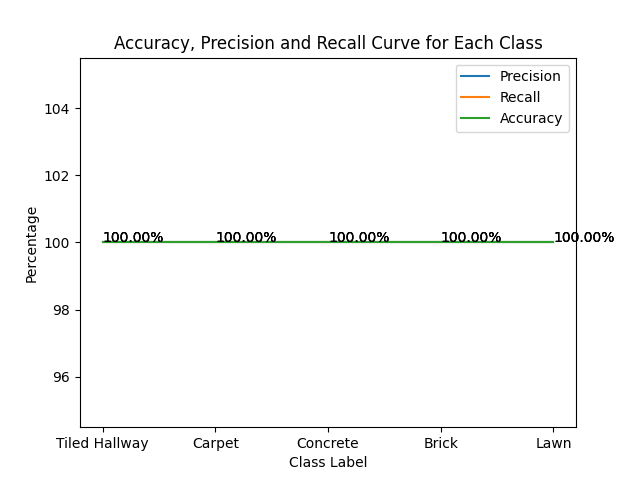
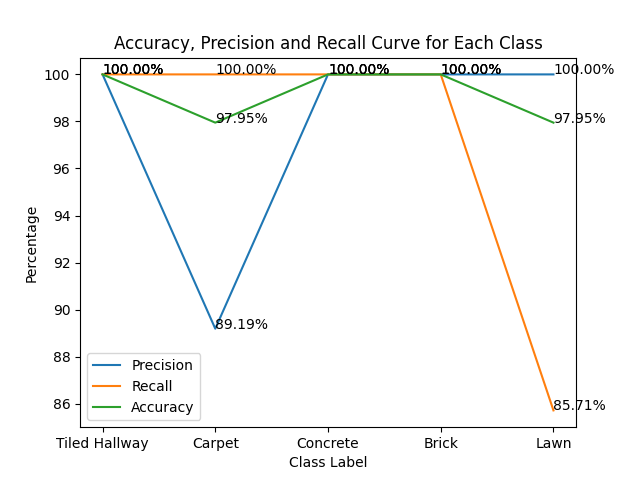
Clean up deleted files

diff --git a/train.py b/train.py
@@ -34,7 +34,7 @@ from PersModel import PersModelCNN
 
 
 
-#10%
+
 def train(config, test_type, model_name):
     """
     Train the SuperResolution model
@@ -313,8 +313,7 @@ def test(test_type, model_name, model = None):
         if model_name == "initial":
             model = TestCNN(input_channels= config['input_channels'],
                 num_blocks=config['num_blocks'],
-                num_features=config['num_features'],
-            )
+                num_features=config['num_features'])
         elif model_name == "alex":
             model = AlexNetCNN(input_channels= config['input_channels'])
         elif model_name == "vgg":
@@ -383,7 +382,10 @@ def test(test_type, model_name, model = None):
     accuracy_list = []
     # find precision and recall statistics
     for i in range(5):
-        precision = (precision_recall[i, 3]/ (precision_recall[i, 3] + precision_recall[i, 0])) * 100
+        if (precision_recall[i, 3] + precision_recall[i, 0]) == 0:
+            precision = 0.0
+        else:
+            precision = precision = (precision_recall[i, 3]/ (precision_recall[i, 3] + precision_recall[i, 0])) * 100
         recall = (precision_recall[i, 3]/ (precision_recall[i, 3] + precision_recall[i, 1])) * 100
         accuracy = ((precision_recall[i, 3] +precision_recall[i,2]) / (precision_recall[i, 0]+ precision_recall[i, 2] + precision_recall[i, 3] + precision_recall[i, 1])) * 100
         precision_list.append(precision)
@@ -430,19 +432,19 @@ if __name__ == "__main__":
         
 
         'root_dir': fr'~\\DeepLearningFallDetection\\data',  # Training data directory
-        'save_dir': fr'CNN_Models\\VGGNet',  # Directory specific to the model being tested 
+        'save_dir': fr'CNN_Models\\Personal_Model',  # Directory specific to the model being tested 
         
         
         # Training parameters
         'batch_size': 15,                
-        'num_epochs': 15,               
-        'learning_rate': 1e-6,           
+        'num_epochs': 150,               
+        'learning_rate': 5e-6,           
         'lr_decay_step': 30,            
         'lr_decay_gamma': 0.5,           
         'validation_interval': 5,        
         'input_channels'   : 6,
         'test_ratio' : 0.2,
-        'window_size' : 64,
+        'window_size' : 128,
         'num_features': 64,             
         'num_blocks': 8,      
         'test_type' : "user",         
@@ -457,6 +459,6 @@ if __name__ == "__main__":
     
 
     if config['run_type'] == 'test':
-        test(config['test_type'], "vgg")
+        test(config['test_type'], "personal")
     else:
-        train(config, config['test_type'], "vgg")
+        train(config, config['test_type'], "personal")

diff --git a/plot_peaks.py b/plot_peaks.py
@@ -2,8 +2,9 @@ from scipy.signal import find_peaks
 import pandas as pd
 import numpy as np
 import matplotlib.pyplot as plt
+from findpeaks import findpeaks
 
-df = pd.read_csv('~\\DeepLearningFallDetection\\data\\User2_LocationA_Normal.csv', sep = "\t", header = 1)
+df = pd.read_csv('~\\DeepLearningFallDetection\\data\\User1_LocationA_Normal.csv', sep = "\t", header = 1)
 
 
 df = df.iloc[1:].astype('float64')
@@ -12,7 +13,18 @@ df = df.iloc[1:].astype('float64')
 df['Composed_Acceleration'] = np.sqrt(df['Shimmer_8665_Accel_LN_X_CAL']**2 + df['Shimmer_8665_Accel_LN_Y_CAL']**2 + df['Shimmer_8665_Accel_LN_Z_CAL']**2)
 
 
-peaks, _ = find_peaks(df['Composed_Acceleration'], threshold = 3, distance = 128, prominence = 12 )
+peaks, _ = find_peaks(df['Composed_Acceleration'], threshold = 1, distance = 128, prominence = 12 )
+
+# fp = findpeaks(method='peakdetect', lookahead=128, interpolate=None)
+
+# results = fp.fit(df['Composed_Acceleration'])
+
+# peaks_df = results['df']
+
+# peaks_only = peaks_df[peaks_df['peak'] == 1]
+
+# print(results)
+# fp.plot()
 
 
 peak_values = df['Composed_Acceleration'].iloc[peaks]
@@ -24,7 +36,8 @@ plt.plot(df['Shimmer_8665_Timestamp_Unix_CAL'].iloc[peaks[0] - 67], df['Composed
 plt.plot(df['Shimmer_8665_Timestamp_Unix_CAL'].iloc[peaks[0] + 67], df['Composed_Acceleration'].iloc[peaks[0] + 68], "bo")
 plt.plot(df['Shimmer_8665_Timestamp_Unix_CAL'].iloc[peaks[1] - 67], df['Composed_Acceleration'].iloc[peaks[1] - 67], "go")
 plt.plot(df['Shimmer_8665_Timestamp_Unix_CAL'].iloc[peaks[1] + 68], df['Composed_Acceleration'].iloc[peaks[1] + 68], "go")
-
+plt.plot(df['Shimmer_8665_Timestamp_Unix_CAL'].iloc[peaks[2] - 67], df['Composed_Acceleration'].iloc[peaks[2] - 67], "ko")
+plt.plot(df['Shimmer_8665_Timestamp_Unix_CAL'].iloc[peaks[2] + 68], df['Composed_Acceleration'].iloc[peaks[2] + 68], "ko")
 # for idx in peaks:
 #         data_sample = df.iloc[idx - ((128//2)-1): idx + (128//2), 0:7]
 #         print(data_sample)

diff --git a/CNN_Models/Personal_Model/PersModel.py b/CNN_Models/Personal_Model/PersModel.py
@@ -26,19 +26,24 @@ class PersModelCNN(nn.Module):
     
 
         self.mid_conv = nn.Sequential(
-            nn.Conv1d(num_features, num_features, 3, 1, padding=1),
-            nn.BatchNorm1d(num_features)
+            nn.Conv1d(num_features, num_features*2, 3, 1, padding=1),
+            nn.BatchNorm1d(num_features*2)
         )
 
+        self.mid_conv2 = nn.Sequential(
+            nn.Conv1d(num_features*2, num_features*3, 3, 1, padding=1),
+            nn.BatchNorm1d(num_features*3)
+        )
     
-        self.fc_layer = nn.Linear(num_features, num_classes)
+        self.fc_layer = nn.Linear(num_features*3, num_features*3)
+        self.fc_layer2 = nn.Linear(num_features*3, num_classes)
        
         self._initialize_weights()
         pass
         
     def _initialize_weights(self):
 
-        for m in self.blocks: #initialize the appropriate weights
+        for m in self.modules(): #initialize the appropriate weights
             if isinstance(m, nn.Conv1d) or isinstance(m, nn.Linear):
                 nn.init.xavier_uniform_(m.weight)
                 if m.bias is not None:
@@ -51,14 +56,17 @@ class PersModelCNN(nn.Module):
     def forward(self, x):
         
         x = self.initial_conv(x)
-        residual = x.clone()
+
        
         x = self.mid_conv(x)
         
-        x += residual
+
+        x = self.mid_conv2(x)
+
 
         x = torch.mean(x, dim=2)
        
         x = self.fc_layer(x)
+        x = self.fc_layer2(x)
         return x
     

diff --git a/dataloader.py b/dataloader.py
@@ -17,13 +17,14 @@ from scipy.signal import find_peaks
 
 
 class MotionDataset(Dataset):
-    def __init__(self, root_dir, window_size, mode = "train", test_ratio=0.2,seed=42, test_type = "normal"):
+    def __init__(self, root_dir, window_size, mode = "train", threshold = 3, test_ratio=0.2,seed=42, test_type = "normal"):
 
         self.root_dir = root_dir
         self.test_ratio = test_ratio
         self.seed = seed
         self.window_size = window_size
         self.mode = mode
+        self.threshold = threshold
         
 
         random.seed(seed)
@@ -91,7 +92,7 @@ class MotionDataset(Dataset):
             
                 df['Composed_Acceleration'] = np.sqrt(df['Shimmer_8665_Accel_LN_X_CAL']**2 + df['Shimmer_8665_Accel_LN_Y_CAL']**2 + df['Shimmer_8665_Accel_LN_Z_CAL']**2)
                 # df['Composed_Gyroscope'] = np.sqrt(np.power(df['Shimmer_8665_Gyro_X_CAL'], 2) + np.power(df['Shimmer_8665_Gyro_Y_CAL'], 2) + np.power(df['Shimmer_8665_Gyro_Z_CAL'], 2))
-                peaks, _ = find_peaks(df['Composed_Acceleration'], threshold = 3, distance = self.window_size, prominence = 12 )
+                peaks, _ = find_peaks(df['Composed_Acceleration'], threshold = self.threshold, distance = self.window_size, prominence = 12 )
 
                 for idx in peaks:
                     if (idx - ((self.window_size//2)-1)) > 0:
